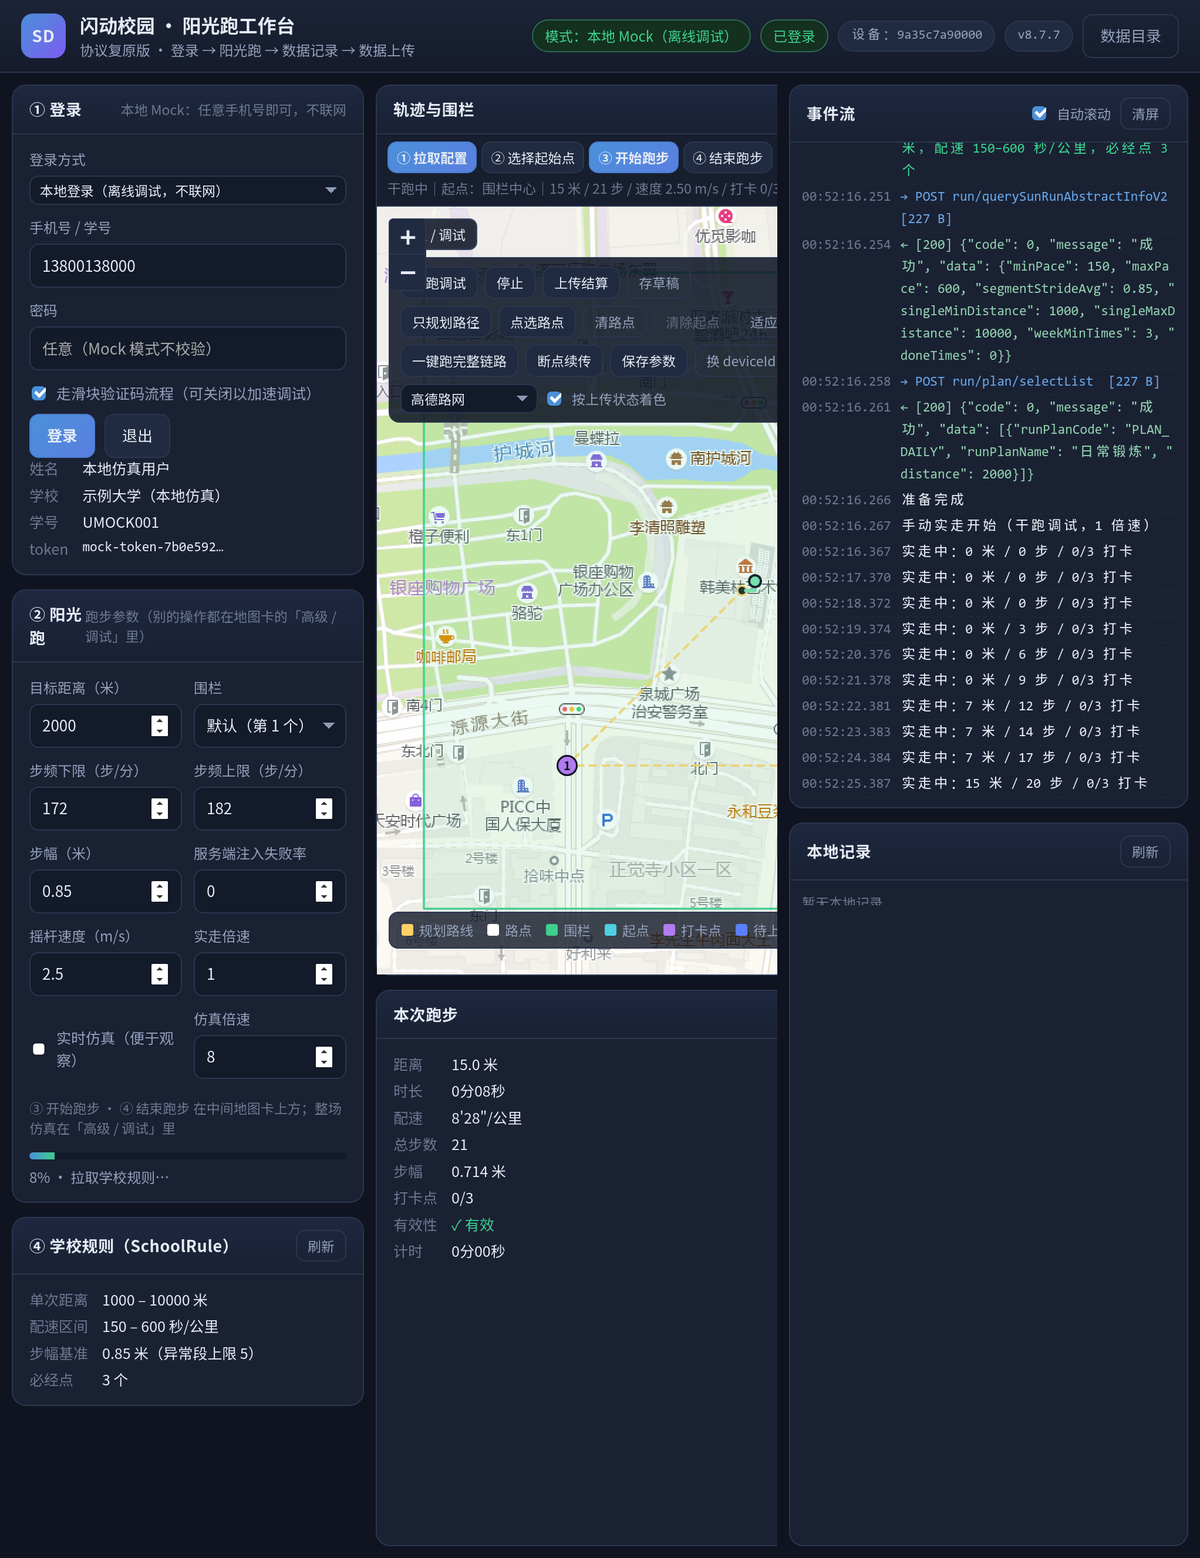
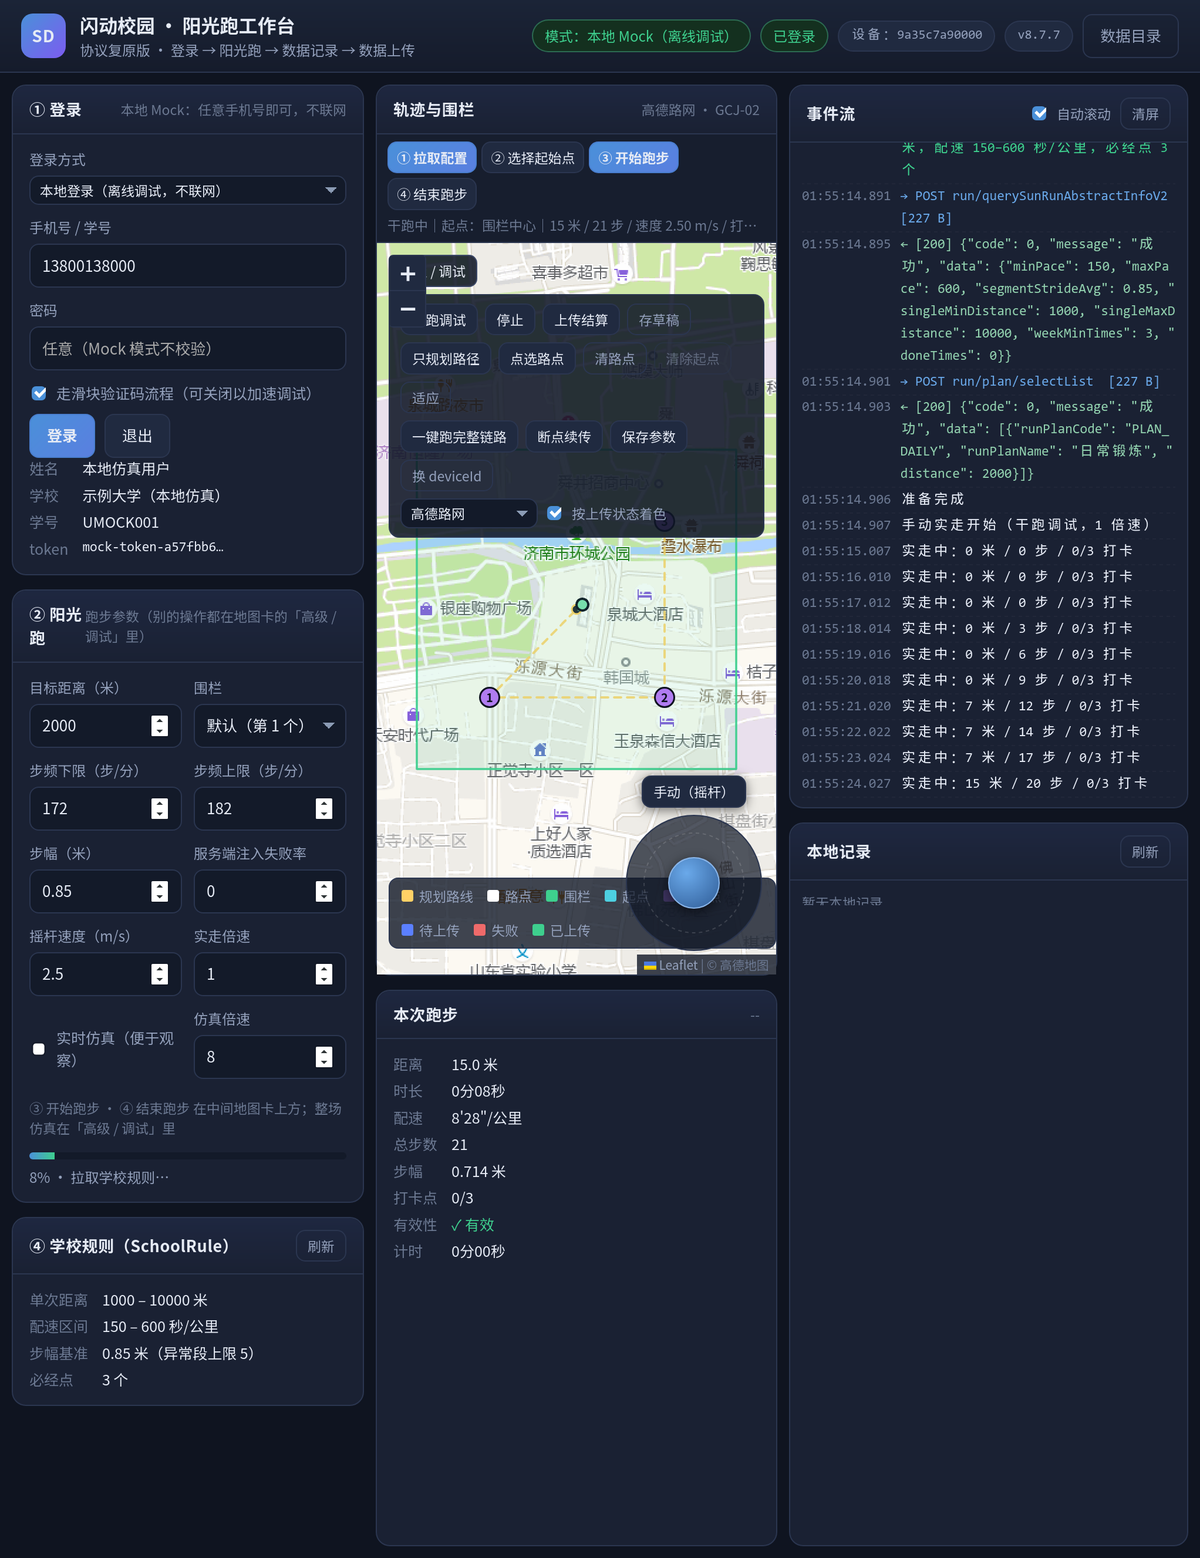
摇杆被裁的真因：中栏网格列被 nowrap 提示行撑开，摇杆被裁到中栏外（m02121）
用户 2026-10-18 再报「点了开始跑步摇杆还是被裁掉」，窗口很高也一样。实测（临时
pywebview 诊断脚本量 DOM）定位到与「地图区被压扁」无关的第二个原因：

- .col-mid 的网格列原本是内容尺寸（auto），而主流程提示行 #flow-info 是 nowrap
  的长文案，按全文宽度把地图卡撑到 622px（中栏只有 342px）；
- 挂在卡片上的绝对定位摇杆按卡片右边缘摆放 → 落在 x 813~929，而 .col-mid
  {overflow:hidden} 只到 x 662，于是整簇被裁掉；DOM 里矩形、可见性、offsetParent
  全部正常，屏幕上什么都没有（截图与 elementFromPoint 都证实：命中的是中栏右侧的卡片）。

修复：
- web/style.css：.col-mid 固定列宽 grid-template-columns: minmax(0, 1fr)，
  并加 .col-mid > .card { min-width: 0 }；卡片不再被内容撑宽，提示行自己省略号收尾。
- scripts/gui_probe.py：新增「摇杆簇真的在屏幕可见区内」（摇杆中心点 elementFromPoint
  必须命中摇杆本身 + 卡片右边缘不得越出中栏右边缘），并把实跑中那条检查也升级为
  同一判据——原来只比「摇杆簇 vs 卡片」，卡片自己被裁时照样通过。
- README：补上这第二个原因的说明与自检项描述。

验证：node --check / compileall 通过；单测 185 OK；selfcheck 56/56；webcheck 58/58；
桌面探针 69 项全过（含新增判据：卡片宽 342 / 中栏宽 342，中心点命中 joy-knob），
七张实拍已刷新（gui-5-walk-real.png 里实跑中的摇杆与「自动跑中（点此转手动）」都在）。

diff --git a/web/app.js b/web/app.js
@@ -847,6 +847,48 @@ function syncFlowInfo() {
   if (end) end.disabled = !(S.walk && S.walk.running);
 }
 
+// ══════════════════ 布局自愈与界面自检 ══════════════════
+// 摇杆簇「永不消失」兜底 + 把实测几何上报后端（写进事件流 / app.log）。
+// 背景：2026-10-18 用户报「点开始跑步后摇杆被裁掉」——窗口矮、或 ③ 之后提示行变长把工具行撑高，
+// 都能把地图区压扁，绝对定位的摇杆会被地图区 overflow:hidden 整块裁掉。
+// 这里无论布局怎么变都把摇杆夹回卡片可见区（必要时整体缩一档），并把 card/body/ctl 的实测矩形发去存档。
+function reportGeometry(tag) {
+  const card = document.querySelector('.map-card');
+  const body = document.querySelector('.map-body');
+  const ctl = $('run-ctl');
+  const joy = $('joy');
+  if (!card || !ctl) return null;
+  const R = (e) => {
+    if (!e) return null;
+    const r = e.getBoundingClientRect();
+    return { top: Math.round(r.top), bottom: Math.round(r.bottom),
+             left: Math.round(r.left), right: Math.round(r.right),
+             w: Math.round(r.width), h: Math.round(r.height) };
+  };
+  ctl.style.transform = '';
+  const a = R(card), c = R(ctl);
+  let dx = 0, dy = 0, scale = 1;
+  if (c.bottom > a.bottom - 4) dy = a.bottom - 4 - c.bottom;       // 越出卡片下边 → 上移
+  if (c.top + dy < a.top + 4) dy = a.top + 4 - c.top;              // 越出上边 → 下移
+  if (c.right > a.right - 4) dx = a.right - 4 - c.right;
+  if (c.left + dx < a.left + 4) dx = a.left + 4 - c.left;
+  if (c.h > a.h - 8) scale = Math.max(0.55, (a.h - 8) / c.h);      // 卡片太矮 → 整体缩一档
+  if (dx || dy || scale !== 1) {
+    ctl.style.transformOrigin = 'bottom right';
+    ctl.style.transform = `translate(${Math.round(dx)}px, ${Math.round(dy)}px) scale(${scale.toFixed(3)})`;
+  }
+  const info = {
+    tag: tag || '', vw: innerWidth, vh: innerHeight, dpr: window.devicePixelRatio,
+    card: a, body: R(body), ctl: R(ctl),
+    joyVisible: !!(joy && joy.offsetParent),
+    autoBtnVisible: !!($('btn-auto-run') && $('btn-auto-run').offsetParent),
+    advOpen: !!($('adv-tools') && $('adv-tools').open),
+    fixed: !!(dx || dy || scale !== 1),
+  };
+  try { Bridge.call('ui_report', JSON.stringify(info)); } catch (e) { /* 桥未就绪就算了 */ }
+  return info;
+}
+
 // 「自动跑」按钮：手动（默认）↔ 自动沿规划路线走。开跑后点也能切（后端 walk_auto 立即生效）
 function syncAutoUi() {
   const b = $('btn-auto-run');
@@ -940,6 +982,7 @@ async function startRun() {
   S.previewPoints = [];
   await Bridge.call('walk_route', '[]', !!S.autoRun, false);
   await walkStart('real');
+  reportGeometry('run');                       // 开跑后把布局几何上报一次（写进事件流）
 }
 
 // ④ 结束跑步：停止记录 → 上传轨迹 → 结算（上传走后台线程，进度看状态行）
@@ -964,6 +1007,7 @@ async function walkEnd() {
   } finally {
     busy(b, false);
     syncFlowInfo();                   // 能不能再点，由真实运行态决定
+    reportGeometry('end');
   }
 }
 
@@ -1192,7 +1236,11 @@ $('btn-login').addEventListener('click', async () => {
   $('btn-clear-log').addEventListener('click', () => { $('log').innerHTML = ''; S.logCount = 0; });
   $('btn-refresh-runs').addEventListener('click', refreshRuns);
   // 尺寸变化：Leaflet 必须收到 invalidateSize，否则瓦片错位、底图留白
-  window.addEventListener('resize', () => { if (MAP.obj) MAP.obj.invalidateSize(); drawMap(); });
+  window.addEventListener('resize', () => {
+    if (MAP.obj) MAP.obj.invalidateSize();
+    drawMap();
+    reportGeometry('resize');
+  });
 
   // 首次渲染 + 轮询事件流（失败一定要看得见，否则界面会静默地全空）
   try {
@@ -1202,6 +1250,7 @@ $('btn-login').addEventListener('click', async () => {
     toast('初始化失败：' + ((e && e.message) || e), 'err');
   }
   setInterval(poll, 700);
+  reportGeometry('load');                        // 首屏自检：摇杆簇有没有被裁，直接写进事件流
 }
 
 async function saveParams(silent) {

diff --git a/web/index.html b/web/index.html
@@ -192,15 +192,6 @@
             </div>
           </div>
         </details>
-        <!-- 摇杆与「自动跑」常驻右下角：默认手动，点了「自动跑」才沿路线自动走 -->
-        <div class="run-ctl" id="run-ctl">
-          <button class="btn small" id="btn-auto-run"
-                  title="默认手动：用右下角摇杆控制方向。点这里切到自动沿规划路线跑，再点一次交回摇杆">手动（摇杆）</button>
-          <div class="joy" id="joy" title="拖动控制方向；松手即停；也可用方向键（自动跑时推杆即接管）">
-            <div class="joy-ring"></div>
-            <div class="joy-knob" id="joy-knob"></div>
-          </div>
-        </div>
         <div class="map-legend">
           <span><i class="sw route"></i>规划路线</span>
           <span><i class="sw wpt"></i>路点</span>
@@ -210,6 +201,17 @@
           <span><i class="sw init"></i>待上传</span>
           <span><i class="sw fail"></i>失败</span>
           <span><i class="sw succ"></i>已上传</span>
+        </div>
+      </div>
+      <!-- 摇杆与「自动跑」常驻地图卡右下角：默认手动，点了「自动跑」才沿路线自动走。
+           注意它挂在卡片上（不在 .map-body 里）——地图区 overflow:hidden，
+           窗口一矮/提示行变长就会把绝对定位的摇杆整块裁掉（2026-10-18 实测）。 -->
+      <div class="run-ctl" id="run-ctl">
+        <button class="btn small" id="btn-auto-run"
+                title="默认手动：用右下角摇杆控制方向。点这里切到自动沿规划路线跑，再点一次交回摇杆">手动（摇杆）</button>
+        <div class="joy" id="joy" title="拖动控制方向；松手即停；也可用方向键（自动跑时推杆即接管）">
+          <div class="joy-ring"></div>
+          <div class="joy-knob" id="joy-knob"></div>
         </div>
       </div>
     </div>

diff --git a/web/style.css b/web/style.css
@@ -77,6 +77,11 @@ html, body {
    .map-body{overflow:hidden} 会把整簇摇杆裁掉（2026-10-18 实测）。 */
 .col-mid {
   display: grid;
+  /* 列宽由中栏自身宽度决定，不被卡片的 max-content 撑开：
+     #flow-info 是 nowrap 的长文案，用 auto 列时会把卡片撑到 622px，
+     而中栏只有 342px——绝对定位的摇杆按卡片右边缘摆放，就被 .col-mid{overflow:hidden}
+     整块裁到中栏外面（2026-10-18 实测：DOM 里摇杆矩形正常、屏幕上什么都没有）。 */
+  grid-template-columns: minmax(0, 1fr);
   grid-template-rows: minmax(0, 1.6fr) minmax(0, 1fr);
   overflow: hidden;
 }
@@ -84,6 +89,12 @@ html, body {
    右下角摇杆簇（按钮 + 摇杆 + 底边距，最大约 175）永远放得下。
    高窗口时它照样按 1.6fr 长大，不影响地图占满上半页。 */
 .col-mid .map-card { min-height: 340px; }
+/* 卡片允许窄于内容（内容自己省略 / 滚动），与上面的列宽一起保证卡片右边缘
+   就是中栏的右边缘，右下角的摇杆簇才落在可见区内。 */
+.col-mid > .card { min-width: 0; }
+/* 摇杆簇挂在卡片上（不在 .map-body 里）：地图区 overflow:hidden，窗口一矮就会把它裁掉；
+   卡片自己不裁剪，所以哪怕地图区被压到 0，摇杆也不会消失。 */
+.map-card { position: relative; }
 /* 窗口变窄时收窄两侧栏，把宽度让给地图（地图是主视口） */
 @media (max-width: 1340px) {
   .layout { grid-template-columns: 300px minmax(300px, 1fr) 352px; }

diff --git a/scripts/gui_probe.py b/scripts/gui_probe.py
@@ -285,6 +285,45 @@ def main() -> int:
         check("地图卡上还有主流程提示行",
               len(str(js(window, "document.querySelector('#flow-info').textContent") or "")) > 0,
               str(js(window, "document.querySelector('#flow-info').textContent")))
+        # 2026-10-18 用户又报「点了开始跑步摇杆还是被裁掉」：窗口很高、地图区很大也照样不见。
+        # 治本做法：把摇杆簇从 .map-body 里搬出来挂到 .map-card 上（地图区 overflow:hidden，
+        # 矮到一定程度会把里面的绝对定位元素整块裁掉；卡片不裁子元素）。
+        check("摇杆簇挂在卡片上（不在地图区里），地图区再矮也裁不掉它",
+              js(window, "!!document.querySelector('#run-ctl') && "
+                         "!document.querySelector('#run-ctl').closest('.map-body') && "
+                         "document.querySelector('#run-ctl').parentElement"
+                         ".classList.contains('map-card')") is True)
+        # 2026-10-18 实测抓到第二种「看不见」（DOM 里矩形正常、屏幕上什么都没有）：
+        # 中栏的网格列被卡片的 max-content 撑宽（#flow-info 是 nowrap 长文案 → 卡片 622px，
+        # 中栏只有 342px），绝对定位的摇杆按卡片右边缘摆在中栏之外，
+        # 被 .col-mid{overflow:hidden} 整块裁掉。所以这里直接问「摇杆中心点上到底是谁」。
+        raw_vis = js(window, "JSON.stringify((function(){"
+                             "const ctl=document.querySelector('#run-ctl');"
+                             "const j=document.querySelector('#joy').getBoundingClientRect();"
+                             "const m=document.querySelector('.col-mid').getBoundingClientRect();"
+                             "const card=document.querySelector('.map-card').getBoundingClientRect();"
+                             "const hit=document.elementFromPoint(Math.round(j.left+j.width/2),"
+                             "Math.round(j.top+j.height/2));"
+                             "return {over:!!(hit&&ctl.contains(hit)),"
+                             "hit:hit?(hit.id||hit.className||hit.tagName):null,"
+                             "cardW:Math.round(card.width),midW:Math.round(m.width),"
+                             "cardRight:Math.round(card.right),midRight:Math.round(m.right)};})())")
+        try:
+            vis = json.loads(raw_vis) if isinstance(raw_vis, str) else {}
+        except Exception:
+            vis = {}
+        check("摇杆簇真的在屏幕可见区内（摇杆中心点命中摇杆，卡片没被撑出中栏）",
+              bool(vis) and vis.get("over") and vis.get("cardRight", 0) <= vis.get("midRight", 0) + 1,
+              f"命中 {vis.get('hit')}；卡片宽 {vis.get('cardW')} / 中栏宽 {vis.get('midW')}"
+              f"（右边缘 {vis.get('cardRight')} vs {vis.get('midRight')}）")
+        # 前端每次加载/开跑/改窗口大小都把实测几何回传后端（写进事件流 + app.log），
+        # 以后“某个控件看不见”能直接从日志定位，不用等用户截图。
+        check("首屏已把布局自检写进事件流",
+              js(window, "Array.from(document.querySelectorAll('#log > *'))"
+                         ".some(e => (e.textContent || '').includes('界面自检'))") is True,
+              str(js(window, "(Array.from(document.querySelectorAll('#log > *'))"
+                             ".find(e => (e.textContent || '').includes('界面自检')) || {})"
+                             ".textContent || ''"))[:160])
         # 2026-10-18 用户报「点击开始跑步后摇杆会消失，需要使软件全屏才能看到」：
         # ③ 之后提示行文案变长把主流程工具行撑高一档，本就不高的窗口里地图区被压到
         # 175px 以下，.map-body{overflow:hidden} 就把右下角整簇摇杆簇裁没了（纯布局，无 JS 控制）。
@@ -449,6 +488,32 @@ def main() -> int:
               js(window, "!!(S.walk && S.walk.running) && S.walk.auto === false") is True,
               str(js(window, "JSON.stringify({running: !!(S.walk&&S.walk.running), "
                              "auto: !!(S.walk&&S.walk.auto)})")))
+        # 用户报的就是「点了开始跑步摇杆被裁掉」——开跑后（提示行变长、工具行变高）必须再量一次
+        raw_ctl = js(window, "JSON.stringify((function(){"
+                             "const a=document.querySelector('.map-card').getBoundingClientRect();"
+                             "const c=document.querySelector('#run-ctl').getBoundingClientRect();"
+                             "const j=document.querySelector('#joy').getBoundingClientRect();"
+                             "const m=document.querySelector('.col-mid').getBoundingClientRect();"
+                             "const ctlEl=document.querySelector('#run-ctl');"
+                             "const hit=document.elementFromPoint(Math.round(j.left+j.width/2),"
+                             "Math.round(j.top+j.height/2));"
+                             "return {ok:(c.top>=a.top-1&&c.bottom<=a.bottom+1&&c.left>=a.left-1"
+                             "&&c.right<=a.right+1&&a.right<=m.right+1&&!!(hit&&ctlEl.contains(hit))),"
+                             "cTop:Math.round(c.top),cBot:Math.round(c.bottom),"
+                             "aTop:Math.round(a.top),aBot:Math.round(a.bottom),"
+                             "hit:hit?(hit.id||hit.className||hit.tagName):null,"
+                             "cardRight:Math.round(a.right),midRight:Math.round(m.right),"
+                             "joy:!!document.querySelector('#joy').offsetParent,"
+                             "btn:!!document.querySelector('#btn-auto-run').offsetParent};})())")
+        try:
+            ctl = json.loads(raw_ctl) if isinstance(raw_ctl, str) else {}
+        except Exception:
+            ctl = {}
+        check("实跑中右下角摇杆与「自动跑」按钮仍完整可见（没被裁）",
+              bool(ctl) and ctl.get("ok") and ctl.get("joy") and ctl.get("btn"),
+              f"摇杆簇 {ctl.get('cTop')}~{ctl.get('cBot')} vs 卡片 "
+              f"{ctl.get('aTop')}~{ctl.get('aBot')}；中心点命中 {ctl.get('hit')}；"
+              f"卡片右 {ctl.get('cardRight')} vs 中栏右 {ctl.get('midRight')}")
         js(window, "Bridge.call('walk_joystick', 1, 0, 1)")
         time.sleep(4.0)
         stored = int(js(window, "(S.walk && S.walk.stored) || 0") or 0)

diff --git a/sdlab/app.py b/sdlab/app.py
@@ -262,6 +262,18 @@ class App:
                     "in_fence": point_in_polygon(self._start_point[0],
                                                  self._start_point[1], poly)}}}
 
+    # ══════════════════ 前端自检回传 ══════════════════
+    def ui_report(self, info: Any = None) -> Dict[str, Any]:
+        """接收前端的布局自检几何并写进事件流（落 app.log）。
+
+        用途：界面“看不见某个控件”这类问题，事后能直接从日志定位到底是被裁掉了、
+        还是根本没渲染（例如摇杆簇在地图区里被overflow:hidden裁掉时，
+        ctl 的矩形会跑到 body 矩形之外）——不需要用户复现时截图。
+        """
+        text = info if isinstance(info, str) else json.dumps(info or {}, ensure_ascii=False)
+        self.bus.emit("state", "界面自检：" + text[:600])
+        return {"code": 0, "message": "已记录", "data": None}
+
     # ══════════════════ 状态快照（GUI 首屏用） ══════════════════
     def status(self) -> Dict[str, Any]:
         c = self.client

diff --git a/sdlab/gui.py b/sdlab/gui.py
@@ -120,6 +120,10 @@ class JsApi:
         """设置 / 清除跑步起始点：传经纬度就设（围栏外会自动吸附），传空就清除"""
         return self.app.set_start_point(lat, lng)
 
+    def ui_report(self, info: Any = None) -> Dict[str, Any]:
+        """前端上报布局自检几何（摇杆/自动跑按钮的实测矩形），写进事件流便于事后定位"""
+        return self.app.ui_report(info)
+
     # —— 记录 ——
     def list_runs(self, limit: int = 100) -> Any:
         return self.app.list_runs(int(limit))

diff --git a/README.md b/README.md
@@ -187,9 +187,21 @@ python3 -m venv --system-site-packages .venv       # 继承系统包，省一次
   * **地图右下角常驻摇杆 + 「自动跑」**（不随「高级 / 调试」折叠，任何时候都看得见）：默认是**手动**——
     开跑后用摇杆（或方向键）自己控方向；点一下「自动跑」改为沿规划路线自动巡航（按钮点亮、状态行
     同步），再点一次交回摇杆；任何时候**推杆即接管**，自动巡航会立刻让位给手控。
-    摇杆是「随时都在」的：窗口变矮（非全屏）时它随视口自动缩一档（820 / 700 / 620 px 三档，
+    摇杆是「随时都在」的：它挂在**地图卡**上（不是地图区里），而地图区是 `overflow:hidden` 的——
+    之前它挂在地图区里，窗口一矮、或者 ③ 开始跑步 后提示行变长把工具行撑高，地图区被压扁就会
+    把整簇摇杆连同按钮一起裁掉（用户 2026-10-18 报的「点了开始跑步摇杆就没了、得全屏才看得到」）。
+    现在即使地图区再矮也裁不到它；另外窗口变矮（非全屏）时它随视口自动缩一档（820 / 700 / 620 px 三档，
     同时收窄右下角边距），地图区优先保证装得下，「本次跑步」卡这时让位（内部滚动）
     ——**不用全屏也不会把摇杆裁掉**。
+    第二个更隐蔽的原因（也是 2026-10-18 实测抓到的）：中栏的网格列原本是「内容尺寸」的，
+    而主流程提示行 `#flow-info` 是 `nowrap` 长文案——它会按自己的全文宽度把地图卡撑到 **622px**
+    （而中栏只有 342px），绝对定位的摇杆按卡片右边缘摆到中栏之外，被 `.col-mid{overflow:hidden}`
+    整块裁掉；DOM 里矩形、可见性、`offsetParent` 全部正常，屏幕上什么都没有。
+    现在中栏列宽固定为栏宽（`grid-template-columns: minmax(0, 1fr)` + `.col-mid > .card{min-width:0}`），
+    卡片不再被内容撑宽，提示行自己省略号收尾。
+    兜底与取证：前端每次**加载 / 开跑 / 结束 / 改窗口大小**都会实测一次「卡片・地图区・摇杆簇」的矩形，
+    越出卡片就自动夹回去（必要时整体缩一档），并把结果回传后端写成事件流里的
+    `界面自检：{…}`（同时落 `app.log`）——以后“某个控件看不见”能直接从日志定位，不用等用户截图。
 * **中栏（高级 / 调试）**：其余控件全部收进地图卡上的「高级 / 调试」折叠区（默认折叠，需要时才展开，
   功能一个没少）：
   * **只规划路径 / 点选路点 / 清除起点 / 适应**：按打卡点做最近邻排序连成一条闭环，或点「点选路点」
@@ -256,7 +268,9 @@ export SDLAB_HOME=$PWD/.run          # 沙箱内 ~/.local/share 只读时必加
 
 # 桌面外壳自检（真的开窗口、点界面按钮：主流程只剩 4 个按钮、摇杆与「自动跑」常驻右下角、高级默认折叠、
 #   拉取配置后镜头飞到围栏、图上选起点、拉取配置后地图上没有打卡点、③ 开始跑步后才拿到服务端下发的打卡点、
-#   点「自动跑」才沿路线巡航、窗口压矮时右下角摇杆簇不被裁掉、④ 结束跑步上传结算）
+#   点「自动跑」才沿路线巡航、窗口压矮时右下角摇杆簇不被裁掉、摇杆中心点命中的是摇杆本身
+#   （卡片没被提示行撑出中栏）、实跑中摇杆与「自动跑」仍完整可见、首屏把布局自检写进事件流、
+#   ④ 结束跑步上传结算）
 .venv/bin/python scripts/gui_probe.py --distance 1200 --speed 8
 
 # 真实服务端连通性自检（不需要账号；会真的去 api.huachenjie.com 打请求，并实测滑块验证码）
